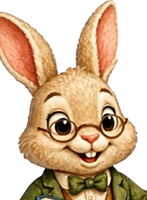
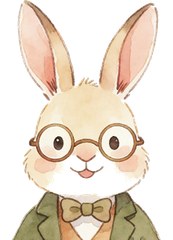
Redraw the two remaining rabbits in the same watercolour style
The nav bust and the blackboard rabbit in the download band were the last two
illustrations left in the old airbrushed style; beside the fourteen redrawn
edge characters they read as a different animal. Both are regenerated from the
same rabbit canon (round spectacles, olive jacket over a tan waistcoat, bow
tie) in the approved storybook watercolour style.

The portrait came back with proportionally longer ears than the old crop, which
would have shrunk the head at the 48px the nav renders it at, so it is cropped
back to the old 0.72 aspect — it lands at exactly 35x48, the width and height
the markup already declares.

Claude-Session: https://claude.ai/code/session_01MGLSLrmtckx3JqW12WLXoG

diff --git a/eski-tasarim.html b/eski-tasarim.html
@@ -18,7 +18,7 @@
 <!-- NAV -->
 <nav>
     <a href="#" class="nav-logo">
-        <img src="tavsan-nav.png?v=1" alt="" class="nav-bear" aria-hidden="true" width="35" height="48" style="height:48px;width:auto;">
+        <img src="tavsan-nav.png?v=2" alt="" class="nav-bear" aria-hidden="true" width="35" height="48" style="height:48px;width:auto;">
         <span>Arkadaşım Kelimeler</span>
     </a>
     <ul class="nav-links">
@@ -1182,7 +1182,7 @@
             </a>
         </div>
     </div>
-    <img src="tavsan-tahta.png?v=2" alt="" aria-hidden="true" class="cta-bear">
+    <img src="tavsan-tahta.png?v=3" alt="" aria-hidden="true" class="cta-bear">
 </section>
 
 <!-- FOOTER -->

diff --git a/index.html b/index.html
@@ -18,7 +18,7 @@
 <!-- NAV -->
 <nav>
     <a href="#" class="nav-logo">
-        <img src="tavsan-nav.png?v=1" alt="" class="nav-bear" aria-hidden="true" width="35" height="48" style="height:48px;width:auto;">
+        <img src="tavsan-nav.png?v=2" alt="" class="nav-bear" aria-hidden="true" width="35" height="48" style="height:48px;width:auto;">
         <span>Arkadaşım Kelimeler</span>
     </a>
     <ul class="nav-links">
@@ -1182,7 +1182,7 @@
             </a>
         </div>
     </div>
-    <img src="tavsan-tahta.png?v=2" alt="" aria-hidden="true" class="cta-bear">
+    <img src="tavsan-tahta.png?v=3" alt="" aria-hidden="true" class="cta-bear">
 </section>
 
 <!-- FOOTER -->
